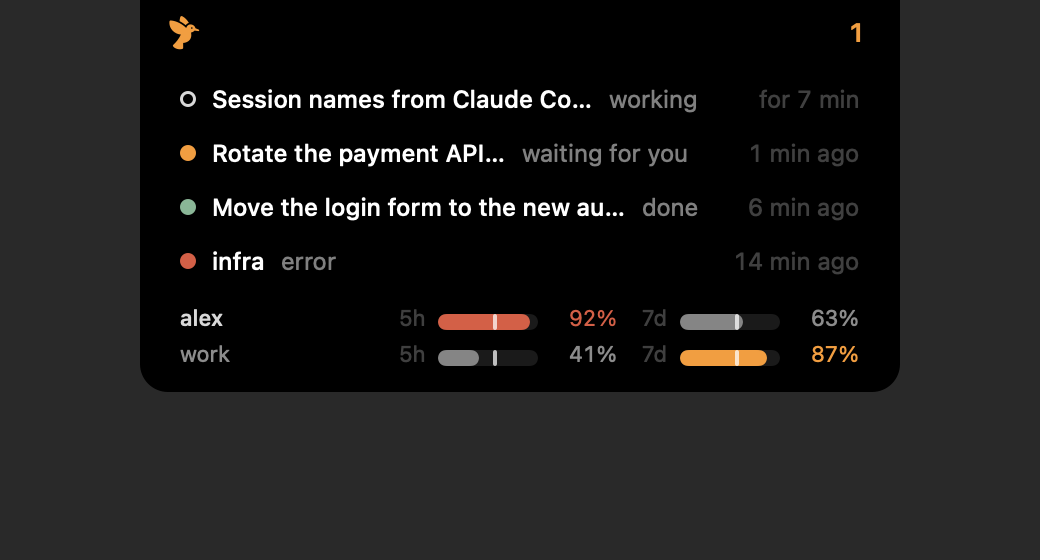
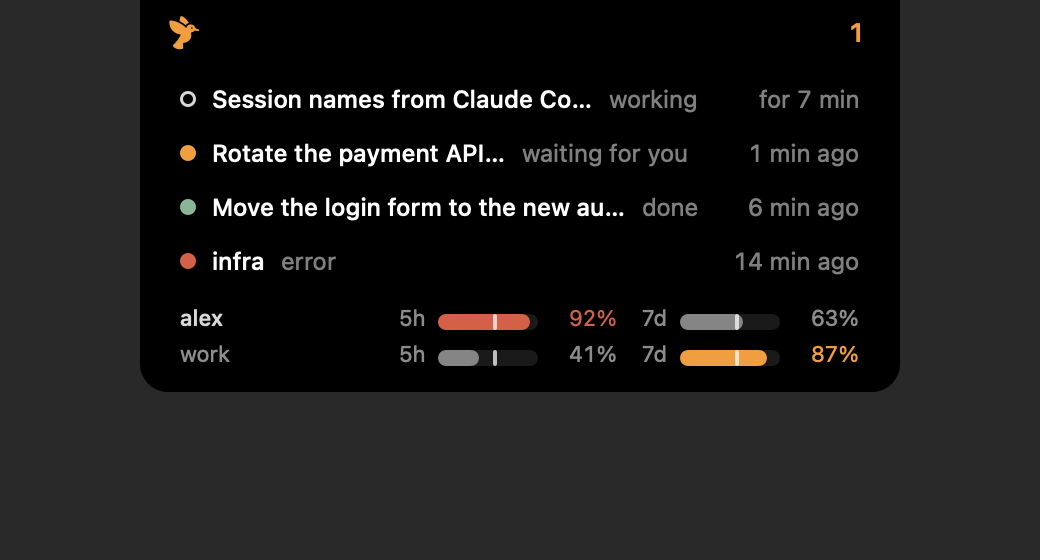
fix: reset times and limit labels in the secondary text color
The clock time a limit resets at, the 5h/7d labels and the times in the notch rows were tertiary, about 2:1 on a
light panel and under 3:1 on the black pill, while they are what you plan around. They take the secondary color;
"read … ago" and the separator stay tertiary. README images rendered again.

diff --git a/Tendbar/Presentation/Usage/UsageSection.swift b/Tendbar/Presentation/Usage/UsageSection.swift
@@ -110,7 +110,7 @@ private struct WindowLimit: View {
             if let window {
                 HStack(spacing: 0) {
                     Text(resetText(window, short: runsOut != nil))
-                        .foregroundStyle(.tertiary)
+                        .foregroundStyle(.secondary)
                     if let runsOut {
                         Text(" · ").foregroundStyle(.tertiary)
                         Text("at this pace out in \(Elapsed.until(runsOut, now: now))")
@@ -160,7 +160,7 @@ struct CompactLimits: View {
     private func gauge(_ title: String, _ window: LimitWindow?, length: TimeInterval, now: Date) -> some View {
         let percentage = window?.percentage(at: now) ?? 0
         return HStack(spacing: 6) {
-            Text(title).foregroundStyle(.tertiary).fixedSize()
+            Text(title).foregroundStyle(.secondary).fixedSize()
             LimitBar(percentage: percentage, height: 4, pace: window?.evenPace(at: now, length: length))
                 .frame(width: barWidth)
             Text(window == nil ? "–" : "\(Int(percentage.rounded()))%")

diff --git a/Tendbar/Presentation/Notch/NotchController.swift b/Tendbar/Presentation/Notch/NotchController.swift
@@ -332,7 +332,7 @@ private struct NotchRow: View {
             Spacer()
             TimelineView(.periodic(from: .now, by: 30)) { context in
                 Text(session.timeText(now: context.date))
-                    .foregroundStyle(.tertiary)
+                    .foregroundStyle(.secondary)
                     .monospacedDigit()
                     .fixedSize()
             }
